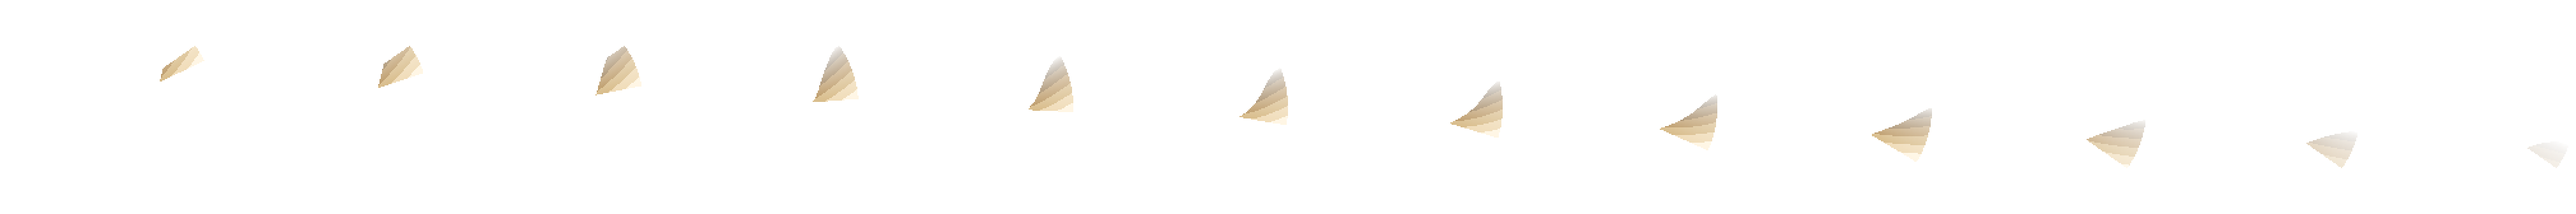
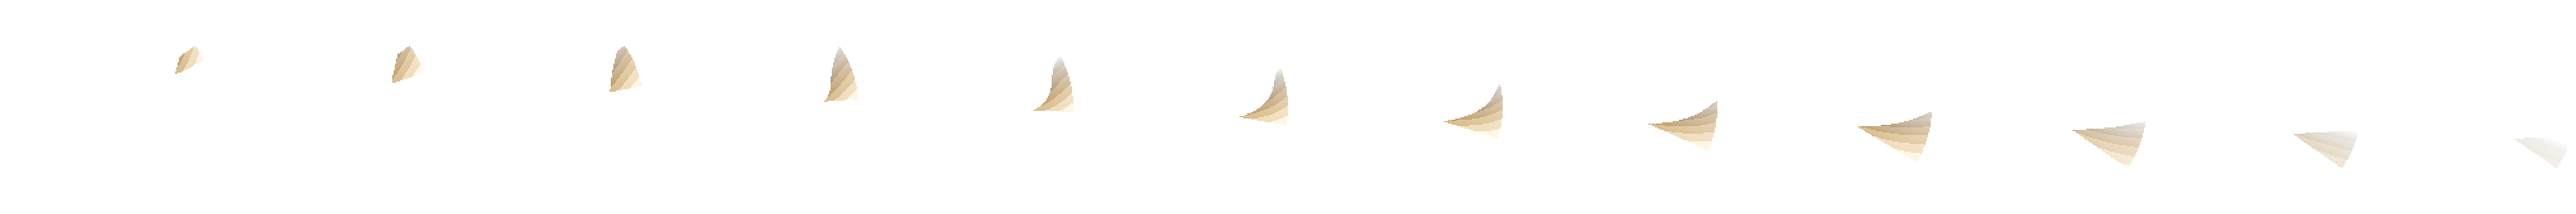
Hacha, maza, látigo y guadaña ya no comparten la misma cuña: cada una su silueta
Pirotecnia.Tajo() dibujaba un único sector barrido para las seis armas
de corte, parametrizado solo por color/grosor/ángulo -medido a ojo,
Hacha y Maza salían prácticamente el mismo dibujo. Ahora un parámetro
`forma` esculpe la silueta por arma: el Hacha se ensancha y se mella
hacia la punta del golpe, la Maza es una bola lisa que engorda a mitad
de arco, la Guadaña abre un gancho curvo en el último tercio del
alcance y el Látigo serpentea a lo largo en vez de trazar un radio
recto. Gladius, Motosierra y Katana se quedan con la cinta de siempre.

Y el Pilum, que no tenía ninguna animación por ser arma arrojadiza,
gana un golpe de polvo hacia atrás al soltar el brazo -mismo patrón
que el fogonazo de las armas de fuego, pero terroso y sin pólvora.

De paso, dos arreglos reales encontrados al ejecutar el generador
fuera de Windows: faltaban System.Drawing.Common y
System.Drawing.Primitives en los ensamblados referenciados -Bitmap,
PixelFormat e ImageFormat no compilaban con solo System.Drawing en
.NET Core- y la ficha del atlas se escribía concatenando un '\' a
mano, que en Mac/Linux deja un fichero suelto con esa barra en el
nombre en vez de sobreescribir explosiones.json.

Probado en partida con Playwright: las seis armas de tajo disparan sin
errores de consola, y el Pilum emite sus partículas de lanzamiento
mientras la Honda -mismo comportamiento, sin el dato nuevo- se queda
sin él.

Claude-Session: https://claude.ai/code/session_01PTXmUyatckfcM1hN4auVEq

diff --git a/js/sistemas/armas.js b/js/sistemas/armas.js
@@ -3,7 +3,7 @@ import { Recursos } from '../core/recursos.js';
 import { ARMAS } from '../datos/armas.js';
 import { MAX_NIVEL } from './progresion.js';
 import { enemigoMasCercano, enemigosEnRadio } from './colisiones.js';
-import { Particulas, COLOR_CHISPA } from './particulas.js';
+import { Particulas, COLOR_CHISPA, COLOR_POLVO } from './particulas.js';
 import { sen, cos, atan2, hipot } from '../core/mate.js';
 
 // Motor genérico de armas.
@@ -117,6 +117,31 @@ function bocaDe(j, ang) {
   return origenDisparo;
 }
 
+// FOGONAZO: un puñado de chispas en cono, en la boca del cañón, una vez por
+// disparo -no una por proyectil, que con la Recortada serían nueve fogonazos
+// pisándose en el mismo punto y el mismo fotograma. Solo lo llaman los
+// comportamientos de arma de fuego, y solo si `arma.def.fogonazo` lo pide (ver
+// datos/armas.js): el Pilum y la Honda comparten `proyectilDirigido` y no
+// queman pólvora.
+function emitirFogonazo(arma, ctx, x, y, ang) {
+  if (!arma.def.fogonazo || Particulas.saturado()) return;
+  Particulas.chorro(x, y, cos(ang), sen(ang), 4, 130, 0.35, 0.09, 1.3,
+                     COLOR_CHISPA, 0.2, ctx.rng);
+}
+
+// LANZAMIENTO: un golpe de polvo hacia ATRÁS -en la dirección CONTRARIA al
+// tiro, no en la del vuelo- en el instante de soltar el arma. Es lo que deja
+// en el suelo el taconazo de quien arma el brazo para tirar, y es justo lo
+// que le faltaba al Pilum: se veía la jabalina volando y nada en el momento
+// de soltarla. No es un fogonazo -no hay pólvora- así que color y apertura
+// son otros: más ancho, más terroso, y la mitad de partículas porque el
+// Pilum dispara mucho más despacio que cualquier arma de fuego.
+function emitirLanzamiento(arma, ctx, x, y, ang) {
+  if (!arma.def.lanzamiento || Particulas.saturado()) return;
+  Particulas.chorro(x, y, -cos(ang), -sen(ang), 4, 55, 0.6, 0.16, 1.1,
+                     COLOR_POLVO, 0.5, ctx.rng);
+}
+
 // Cada cuánto puede un mismo escudo orbital volver a golpear al mismo enemigo.
 const ORBITAL_CADENCIA = 0.35;
 let contadorSelloOrbital = 0;
@@ -194,6 +219,11 @@ const COMPORTAMIENTOS = {
         cos(a) * s.velocidad, sen(a) * s.velocidad,
         sis.defProyectil);
     }
+    // Uno solo por disparo, en la boca central, no uno por proyectil: con
+    // varias balas a la vez (Subfusil, Fusil con rebote) se pisarían.
+    const bf = bocaDe(ctx.jugador, base);
+    emitirFogonazo(arma, ctx, bf.x, bf.y, base);
+    emitirLanzamiento(arma, ctx, bf.x, bf.y, base);
     return true;
   },
 
@@ -261,6 +291,9 @@ const COMPORTAMIENTOS = {
       ctx.proyectiles.lanzar(b.x, b.y, cos(a) * v, sen(a) * v,
                              sis.defProyectil);
     }
+    // Uno solo por disparo, no uno por perdigón: la Recortada dispara nueve.
+    const bf = bocaDe(j, base);
+    emitirFogonazo(arma, ctx, bf.x, bf.y, base);
     return true;
   },
 

diff --git a/js/datos/armas.js b/js/datos/armas.js
@@ -20,6 +20,10 @@ export const ARMAS = {
     nombre: 'Pilum',
     descripcion: 'Jabalina al enemigo más cercano.',
     comportamiento: 'proyectilDirigido',
+    // Golpe de polvo al soltar el brazo, hacia ATRÁS y no hacia el vuelo -es
+    // el único dato que distingue este comportamiento del de un arma de
+    // fuego. Ver `emitirLanzamiento` en sistemas/armas.js.
+    lanzamiento: true,
     danyo: 10,
     recarga: 1.2,
     proyectiles: 1,
@@ -101,6 +105,11 @@ export const ARMAS = {
     descripcion: 'Tiro certero al más cercano. Rápida y de largo alcance.',
     comportamiento: 'proyectilDirigido',
     forma: 'bala',
+    // Fogonazo en la boca del cañón, una vez por disparo. Solo las armas de
+    // fuego lo llevan -el Pilum o la Honda también son `proyectilDirigido`
+    // pero no queman pólvora- así que es un dato de esta arma, no del
+    // comportamiento. Ver `emitirFogonazo` en sistemas/armas.js.
+    fogonazo: true,
     danyo: 7,
     recarga: 0.55,
     proyectiles: 1,
@@ -135,6 +144,7 @@ export const ARMAS = {
     descripcion: 'Abanico de perdigones. Poco alcance, mucho destrozo.',
     comportamiento: 'conoCorto',
     forma: 'bala',
+    fogonazo: true,
     danyo: 6,
     recarga: 1.1,
     proyectiles: 6,
@@ -615,6 +625,7 @@ export const ARMAS = {
     aceleraRebote: 0.10,
     rebotesPared: 0,
     forma: 'bala',
+    fogonazo: true,
     danyo: 38, recarga: 1.35, proyectiles: 1, velocidad: 560, alcance: 440,
     radio: 3, perforacion: 1, dispersion: 3, empuje: 100,
     color: '#cfd6dd', estela: '#6d7480', largoTrazo: 14,
@@ -634,6 +645,7 @@ export const ARMAS = {
     descripcion: 'Ráfaga sin pausa. Cada bala pica poco.',
     comportamiento: 'proyectilDirigido',
     forma: 'bala',
+    fogonazo: true,
     danyo: 4, recarga: 0.22, proyectiles: 1, velocidad: 420, alcance: 260,
     radio: 2, perforacion: 0, dispersion: 9, empuje: 25,
     color: '#ffe08a', estela: '#8a6a2a', largoTrazo: 7,
@@ -652,6 +664,7 @@ export const ARMAS = {
     descripcion: 'Un tiro, muy gordo, y a esperar.',
     comportamiento: 'proyectilDirigido',
     forma: 'bala',
+    fogonazo: true,
     danyo: 30, recarga: 1.9, proyectiles: 1, velocidad: 480, alcance: 300,
     radio: 4, perforacion: 1, dispersion: 0, empuje: 190,
     color: '#ffd0a0', estela: '#8a4a2a', largoTrazo: 11,
@@ -747,6 +760,7 @@ export const ARMAS = {
     descripcion: 'Dos cañones a bocajarro. Abre un pasillo.',
     comportamiento: 'conoCorto',
     forma: 'bala',
+    fogonazo: true,
     danyo: 11, recarga: 1.6, proyectiles: 9, velocidad: 230, alcance: 82, angulo: 78,
     radio: 3, perforacion: 0, empuje: 220,
     color: '#ffc07a', estela: '#8a4a1a',
